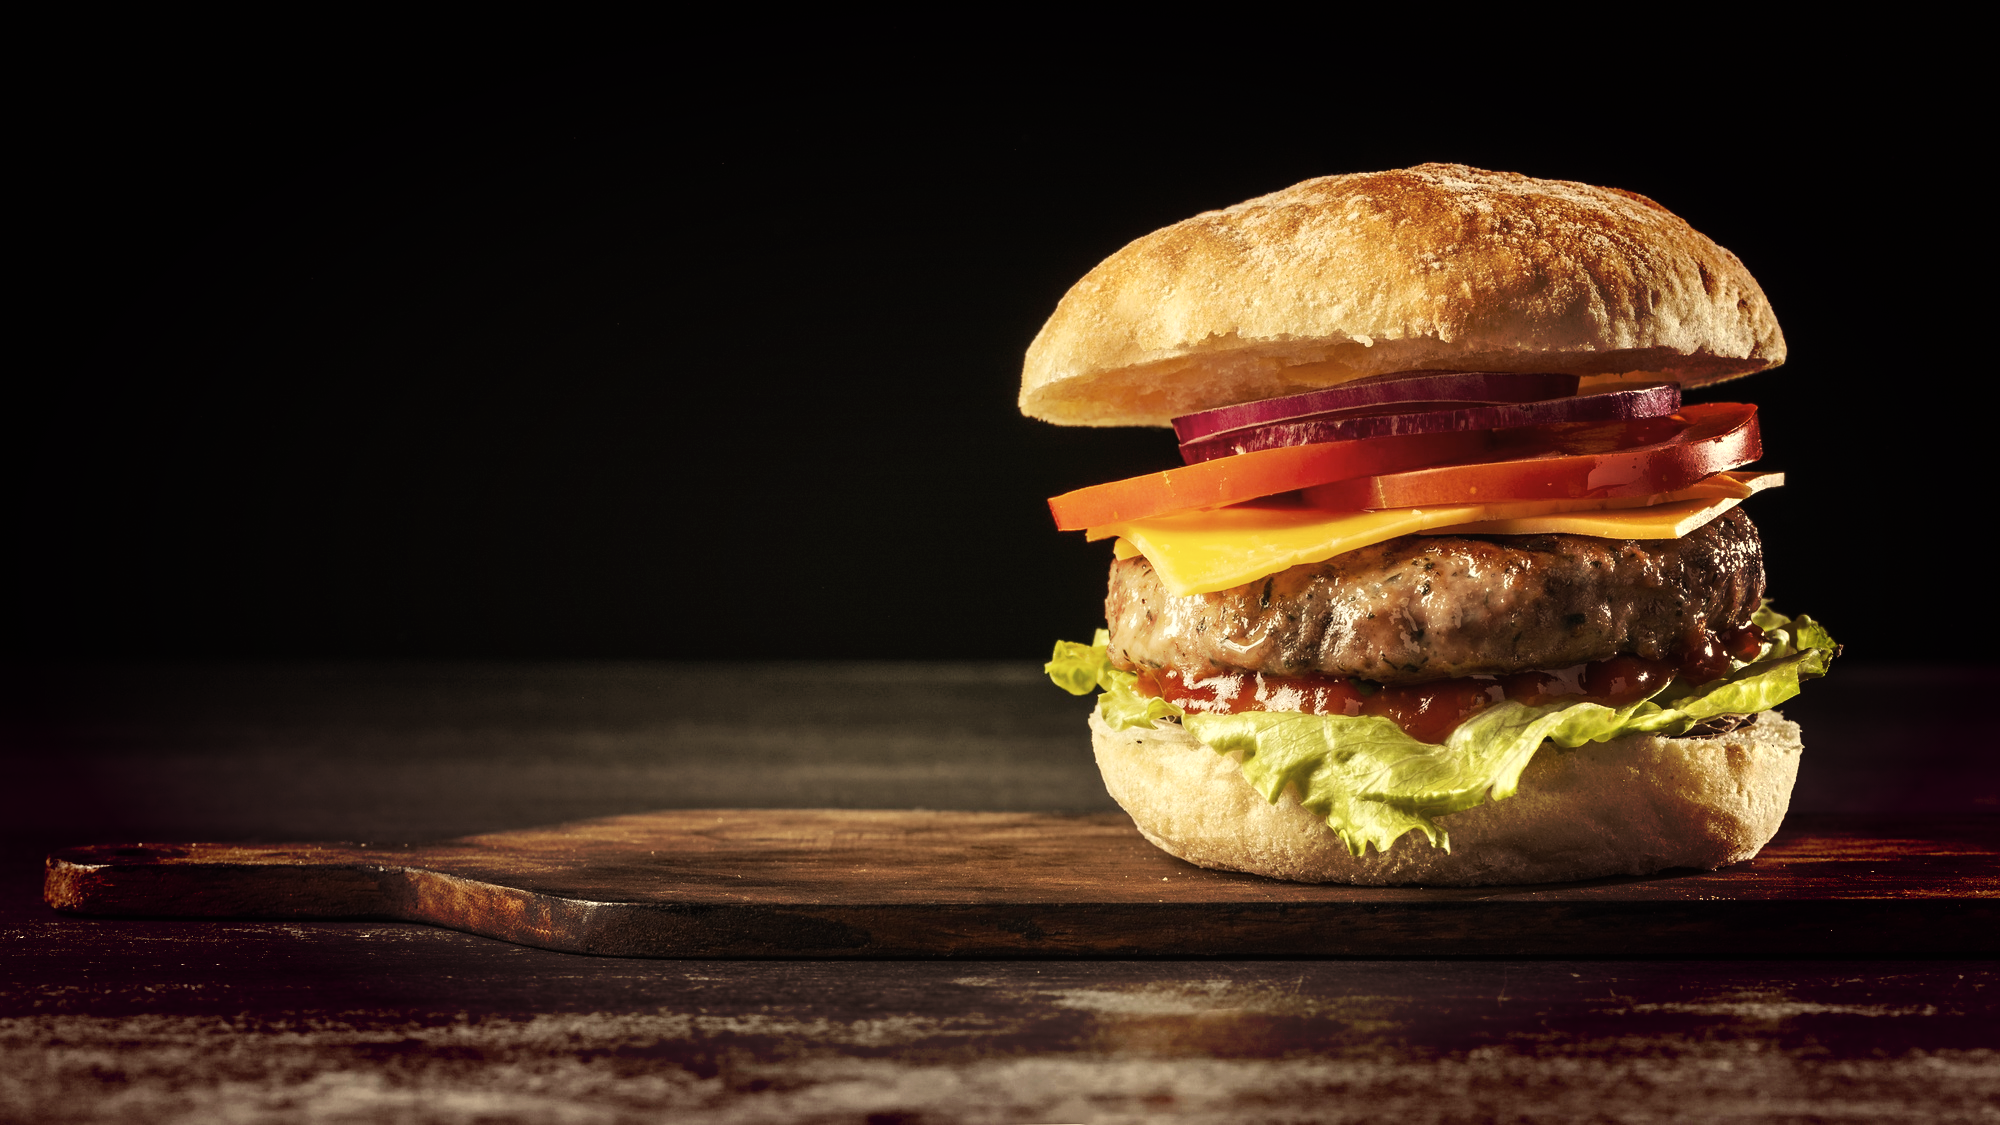
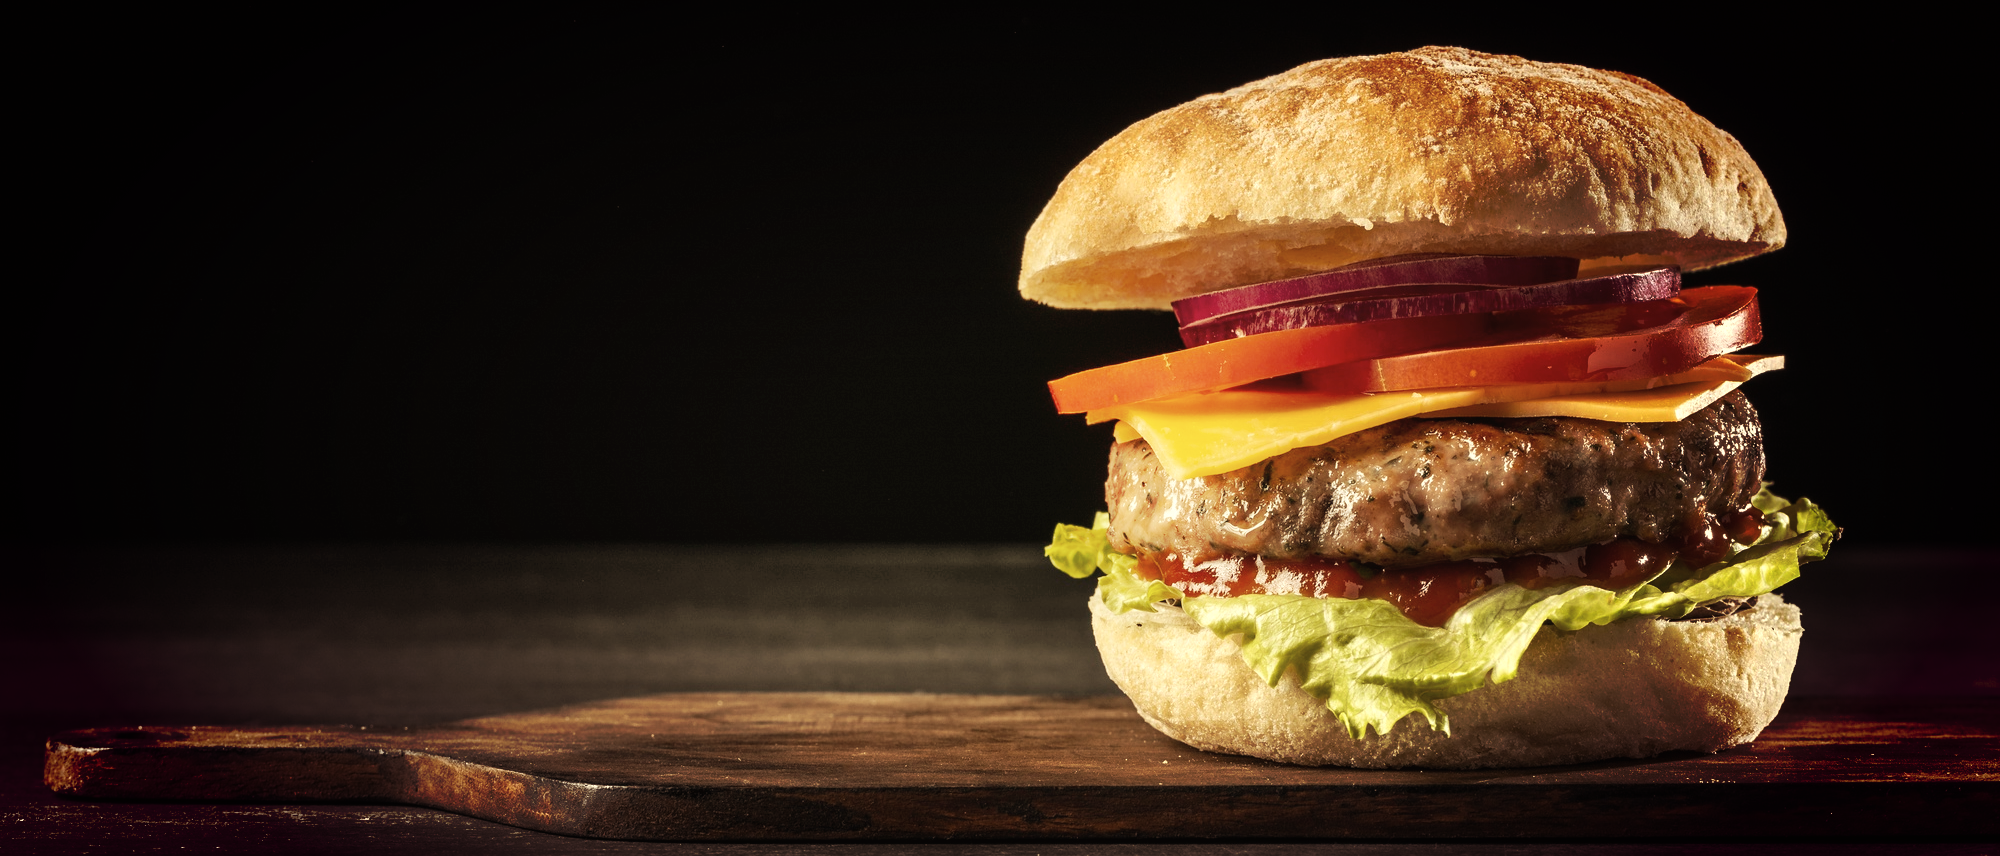
att

diff --git a/src/components/layout/Navbar.tsx b/src/components/layout/Navbar.tsx
@@ -3,15 +3,16 @@
 import { useShoppingCart } from '@/context/ShoppingCartContext'
 import Link from 'next/link'
 // import React, { useState } from 'react'
+import { MdFastfood } from 'react-icons/md'
 
 const Navbar = () => {
 
 	const { openCart, cartQuantity } = useShoppingCart()
 
 	return (
-		<div className='z-10 flex justify-between px-16 p-4 gap-4 bg-gray-400 '>
+		<div className='z-10 flex justify-between px-16 p-4 gap-4 bg-amber-100 h-20'>
 
-			<ul className='flex items-center gap-6'>
+			<ul className='flex items-center gap-6 text-3xl text-amber-800'>
 				<li>
 					<Link href="/">Home</Link>
 				</li>
@@ -26,11 +27,17 @@ const Navbar = () => {
 				</li>
 			</ul>
 
-			<div className='relative'>
-				<button className='font-bold border-2 border-black rounded-full p-3' onClick={openCart}>$ $</button>
-				{cartQuantity > 0 && (
-					<div className='absolute bottom-0 right-0 bg-red-400 rounded-full px-2'>{cartQuantity}</div>
+			<div className=''>
+				<button className='flex rounded-full bg-red-500 text-white p-2 gap-2' onClick={openCart}>
+					<MdFastfood className='text-3xl' />
+					{cartQuantity > 0 && (
+					<div className='text-xs font-thin '>
+						<p>valor</p>
+						<p>Itens {cartQuantity}</p>
+					</div>
 				)}
+				</button>
+				
 			</div>
 
 		</div>

diff --git a/src/app/layout.tsx b/src/app/layout.tsx
@@ -1,11 +1,14 @@
 import Navbar from '@/components/layout/Navbar'
 import './globals.css'
 import type { Metadata } from 'next'
-import { Inter } from 'next/font/google'
+import { Lilita_One } from 'next/font/google'
 import { ShoppingCartProvider } from '@/context/ShoppingCartContext'
 import ShoppingCart from '@/components/layout/ShoppingCart'
 
-const inter = Inter({ subsets: ['latin'] })
+const lilita = Lilita_One({ 
+  subsets: ['latin'],
+  weight: '400'
+})
 
 export const metadata: Metadata = {
   title: 'Create Next App',
@@ -20,13 +23,12 @@ export default function RootLayout({
   return (
     <ShoppingCartProvider>
       <html lang="pt-br">
-      <body className={inter.className}>
+      <body className={lilita.className}>
         <Navbar/>
         <ShoppingCart/>
         {children}
       </body>
     </html>
     </ShoppingCartProvider>
-    
   )
 }

diff --git a/src/app/page.tsx b/src/app/page.tsx
@@ -21,8 +21,11 @@ export default function Home() {
     <Section className="relative" >
       <div>
         <img className="z-0 absolute top-0 right-0 w-screen" src="../home-img.png" alt="" />
-        
-        <p className='absolute font-bold text-4xl text-gray-50'>teste</p>
+
+        <div className="absolute">
+          <p className='font-bold text-7xl text-gray-50'>A CASA DE HAMBURGUER</p>
+          <p className='font-bold text-7xl text-gray-50'>A CASA DE HAMBURGUER</p>
+        </div>
       </div>
     </Section>
   )

diff --git a/src/app/cardapio/page.tsx b/src/app/cardapio/page.tsx
@@ -12,11 +12,13 @@ const Cardapio = () => {
   return (
     <Section>
       <h1 className='font-bold text-4xl'>Cardápio</h1>
-      {storeItems.map(item => (
-        <div key={item.id}>
-          <StoreItem {...item}/>
-        </div>
-      ))}
+      <div className='grid grid-cols-4'>
+        {storeItems.map(item => (
+          <div className='' key={item.id}>
+            <StoreItem {...item}/>
+          </div>
+        ))}
+      </div>
     </Section>
   )
 }
